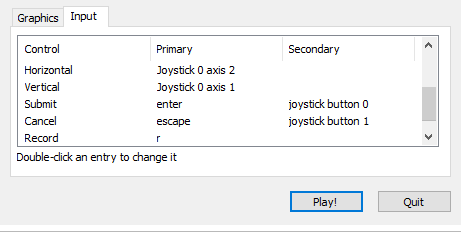
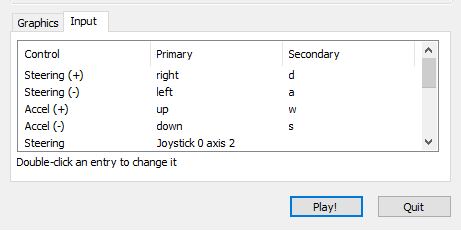
change pictures and update README

diff --git a/README.md b/README.md
@@ -22,19 +22,32 @@ Po uruchomieniu pliku wykonywalnego, powinno pojawić się okno z konfiguracją.
 
 ![input](pictures/player_input.png)
 
-Aby uzyskać sterowanie "łazikowe", `Vertical` ustaw na lewą gałkę, a `Horizontal` na prawą.
+Aby uzyskać sterowanie "łazikowe", `Accel` ustaw na lewą gałkę, a `Steering` na prawą.
+
+## Menu
 
 Po naciśnięciu `Play`, powinno ukazać się Menu.
 
 ![menu](pictures/menu.png)
 
+Przyciski `Training` i `Autonomous` uruchamiają przejazd w odpowiednim trybie.
+
+### Ustawienia
+
+* `Top Speed` - Ograniczenie prędkości na kołach
+* `Recording FPS` - ilość zapisywanych sampli na sekundę (w rzeczywistości może ona być trochę mniejsza, ta opcja gwarantuje tylko, że nie przekroczy tej wartości)
+* `Camera Resulotion` - rozdzielczość nagrywanych oraz wysyłanych obrazów
+* `SocketIO Settings` - IP i Port serwera, na który symulator wysyła dane i od którego otrzymuje sterowanie (Tryb `Autonomous`)
+
+Ustawienia są zapisywane w pliku `settings.json` w folderze `Data`. Przycisk `Apply` zapisuje obecne ustawienia, a przycisk `Revert` wczytuje je z pliku.
+
 ## Tryb Training
 
-W trybie tym łazik sterowany jest manualnie. Sterowanie polega na zadaniu prędkości (Target Speed) oraz prędkości obrotowej (Target Angular Speed). Prędkość zadawana jest przez `Vertical`, a prędkość obrotowa przez `Horizontal`.
+W trybie tym łazik sterowany jest manualnie. Wartość `Accel` odpowiada za jazdę w przód i w tył, a wartość `Steering` za obracanie łazikiem.
 
-![ui](pictures/ui.png)
+![ui_training](pictures/ui_training.png)
 
-Łazik posiada 2 kontrolery PID, które sterują silnikami (jeden odpowiedzialny za nadanie odpowiedniej wartości `Speed`, drugi `Angular Speed`)
+W UI widnieją aktualne wartości `Accel` i `Steering` oraz prędkość łazika obliczana jako średnia prędkości na wszystkich kołach.
 
 ### Nagrywanie przejazdu
 
@@ -54,33 +67,36 @@ Aplikacja zacznie odtwarzać trasę i zapisywać zrzuty z kamery na dysk.
 
 We wskazanym folderze powstanie plik `driving_log.csv`. Każdy rekord tego pliku ma postać:
 
->`camera1,camera2,...,cameraN,accel,steering,speed,angularSpeed`
+>`camera1,camera2,...,cameraN,accel,steering,speed`
 
 Znaczenie powyższych pól:
 
 * camera - ścieżka do zrzutu z kamery (domyślnie są 3 kamery nazwane: left, center i right)
-* accel - wartość z przedziału [-1,1] oznaczająca prędkość zadaną przez użytkownika (wartość `Vertical`). Wartość 1 oznacza, że zadana została prędkość równa "Top Forward Speed" (w tej chwili ustawione na 20km/h)
-* steering - wartość z przedziału [-1,1] oznaczająca prędkość obrotową zadaną przez użytkownika (wartość `Horizontal`). ("Top Angular Speed" ustawione jest na 15 RPM)
-* speed - Aktualna prędkość łazika wyrażona w km/h
-* angularSpeed - Aktualna prędkość obrotowa łazika wyrażona w RPM
+* accel - wartość `Accel` zadana w danym momencie
+* steering - wartość `Steering` zadana w danym momencie
+* speed - prędkość łazika wyrażona w km/h (średnia prędkości na wszystkich kołach)
 * mode - tryb sterowania (M - manual, A - Autonomous)
 
 ## Tryb Autonomous
 
-W tym trybie sterowanie domyślnie przekazywane jest przez protokół Socket.IO. Aby przełączyć na sterowanie manualne, należy naciśnąć przycisk `Control` (domyślnie lewy ctrl). Przykład użycia można znaleźć w folderze `example`.
+W tym trybie sterowanie domyślnie przekazywane jest przez protokół Socket.IO. Przykładowy program, do którego może się połączyć wymulator znajduje się w folderze `example`.
+
+![ui_autonomous](pictures/ui_autonomous.png)
+
+W UI widnieje dodatkowa informacja o aktualnym trybie sterowania (`Manual` lub `Autonomous`). Przyciskiem `Control` (domyślnie lewy ctrl) można przełączać się między trybami.
 
 ### Przykładowy program
 
 Wymagania:
 
 * `Python` (testowano na wersji 3.6.4)
-* pakiety z pliku `requirements.txt`. Można je zainstalować poleceniem `pip install -r requirements.txt` (polecam stworzyć do tego oddzielne środowisko pythonowe programem `virtualenv`, żeby nie zaśmiecać systemu)
+* pakiety z pliku `requirements.txt`. Można je zainstalować poleceniem `pip install -r requirements.txt`
 
 Uruchamianie:
 
-1. Uruchom symulator (najlepiej w trybie `Windowed`, żeby widzieć łazik na żywo).
+1. Uruchom symulator
 2. Wybierz tryb `Autonomous`
-2. Uruchom z terminala skrypt `drive.py`
+3. Uruchom skrypt `drive.py`
 
 
 Działanie:
